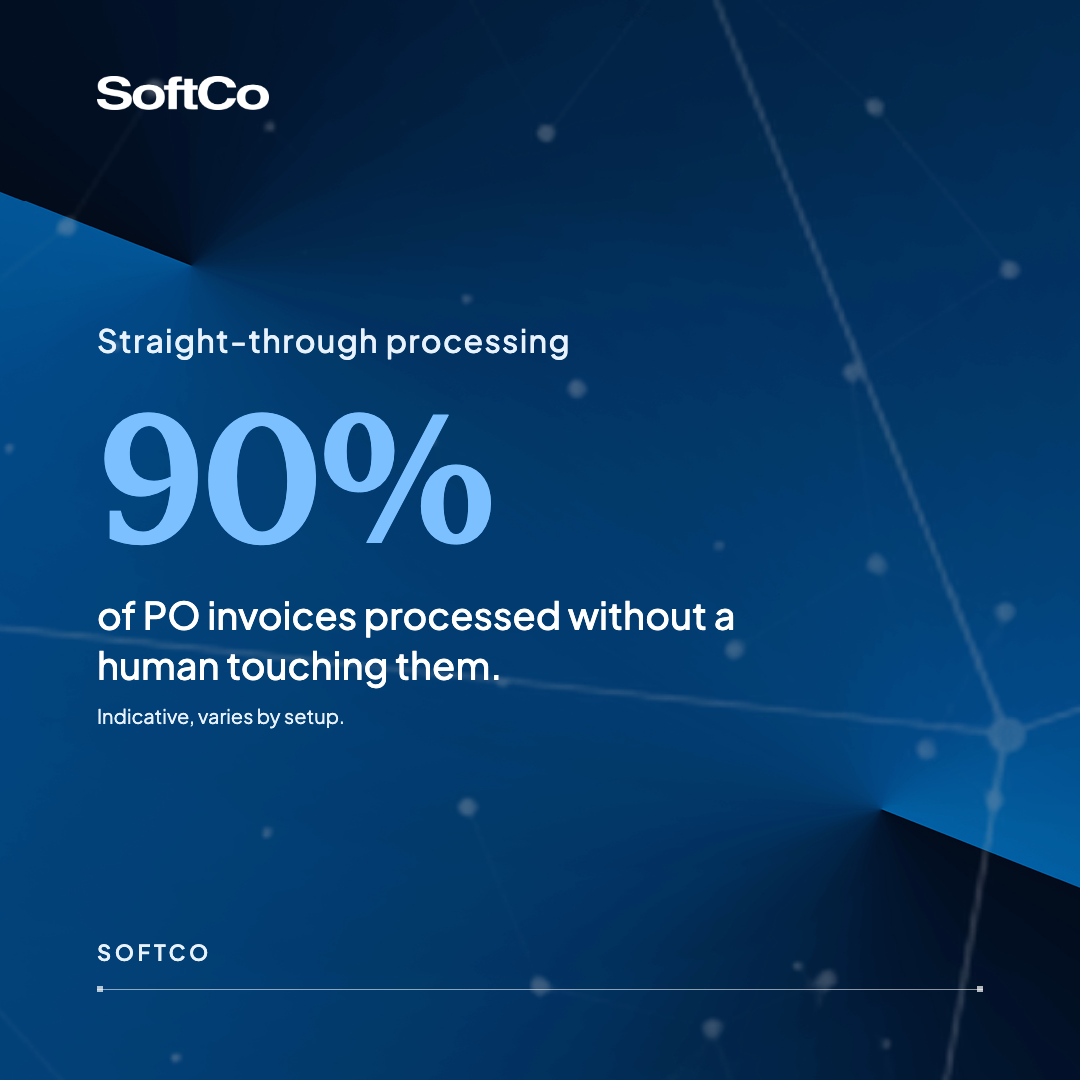
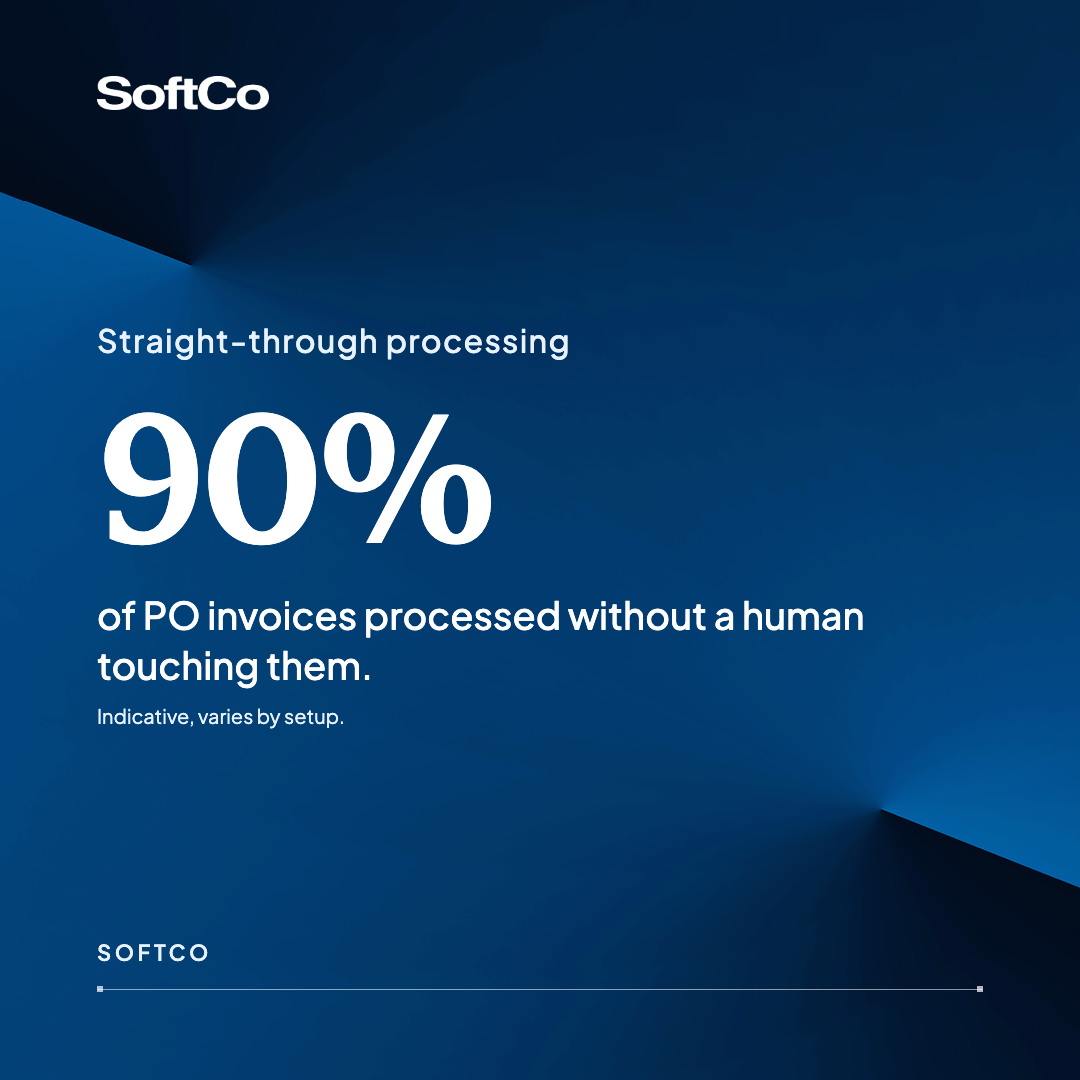
SoftCo page: address 2+6 Jul client feedback on assets
Remove frozen plexus/particle field from static stat_card, webinar_promo
and meeting_bg (it is a motion element; frozen it reads as noise). Lift
the hero stat and webinar title/date to full contrast. Add a 'Feedback
responses · 7 July' block showing each client comment, our response, and
previous-vs-new side by side. New versions are now the live assets.

diff --git a/src/app/clients/softco/data.ts b/src/app/clients/softco/data.ts
@@ -11,7 +11,7 @@ export const meta: Meta = {
   headline: "Creative deliverables",
   intro:
     "A live view of the work for SoftCo in the new brand system. The full asset list is below with status. The finished pieces are shown in full underneath, static and animated. Have a look and send back your thoughts.",
-  lastUpdated: "2026-06-27",
+  lastUpdated: "2026-07-07",
   feedbackContacts: ["softco.com"],
   targetDate: "2026-07-11",
   hideProgress: true,
@@ -388,6 +388,96 @@ export const work: WorkSection[] = [
     ],
   },
   /* ---- ZONE: work - the AI versions, grouped by QA state. ---- */
+  {
+    title: "Feedback responses · 7 July",
+    kind: "html",
+    zone: "work",
+    isNew: true,
+    groupLabel: "Latest · your 2 and 6 July feedback, addressed",
+    desc: "You commented on four assets. Here is each comment, what we changed, and the previous version beside the new one. The three reworked assets are now live on this page; the blog header is a new direction we are scoping.",
+    html: `<div class="fbr">
+<style>
+  .fbr{color:#060d2e;}
+  .fbr-asset{padding:30px 0;border-top:1px solid #e5e7eb;}
+  .fbr-asset:first-child{border-top:none;padding-top:6px;}
+  .fbr-h{display:flex;align-items:baseline;gap:12px;margin-bottom:16px;flex-wrap:wrap;}
+  .fbr-h h4{font-size:20px;font-weight:700;margin:0;letter-spacing:-0.01em;}
+  .fbr-size{font-size:11px;letter-spacing:.1em;text-transform:uppercase;color:#5b6270;border:1px solid #d9dbe0;padding:3px 8px;}
+  .fbr-pending{font-size:10px;letter-spacing:.08em;text-transform:uppercase;font-weight:700;color:#f7931e;border:1px solid #f7931e;padding:2px 7px;}
+  .fbr-cols{display:grid;grid-template-columns:1fr 1fr;gap:20px;margin-bottom:22px;}
+  .fbr-fb,.fbr-fix,.fbr-prop{padding:16px 18px;font-size:14px;line-height:1.5;}
+  .fbr-fb{background:#fff;border:1px solid #e5e7eb;border-left:3px solid #9aa0ab;}
+  .fbr-fix{background:#e8f2fd;border:1px solid #cfe2fa;border-left:3px solid #047fe5;}
+  .fbr-prop{background:#fff;border:1px solid #e5e7eb;border-left:3px solid #f7931e;}
+  .fbr-lab{font-size:11px;letter-spacing:.12em;text-transform:uppercase;font-weight:700;margin-bottom:8px;}
+  .fbr-fb .fbr-lab{color:#5b6270;}.fbr-fix .fbr-lab{color:#047fe5;}.fbr-prop .fbr-lab{color:#f7931e;}
+  .fbr-fb em{font-style:normal;display:block;margin-bottom:8px;}
+  .fbr-attr{color:#5b6270;font-size:12px;}
+  .fbr-fix ul{margin:0;padding:0;list-style:none;}
+  .fbr-fix li{position:relative;padding-left:18px;margin-bottom:7px;}
+  .fbr-fix li:last-child{margin-bottom:0;}
+  .fbr-fix li:before{content:"";position:absolute;left:0;top:7px;width:7px;height:7px;background:#047fe5;}
+  .fbr-prop p{margin:0 0 9px;}.fbr-prop p:last-child{margin:0;}
+  .fbr-ba{display:grid;grid-template-columns:1fr 1fr;gap:20px;}
+  .fbr-shot .fbr-cap{font-size:11px;letter-spacing:.09em;text-transform:uppercase;font-weight:700;margin-bottom:8px;display:flex;justify-content:space-between;align-items:baseline;}
+  .fbr-shot.prev .fbr-cap .fbr-tag{color:#5b6270;}
+  .fbr-shot.next .fbr-cap .fbr-tag{color:#047fe5;}
+  .fbr-cap .fbr-px{font-weight:400;letter-spacing:0;text-transform:none;color:#5b6270;}
+  .fbr-shot img{display:block;width:100%;height:auto;border:1px solid #e5e7eb;}
+  .fbr-square img{max-width:320px;}
+  .fbr-ph{border:1px dashed #d9dbe0;aspect-ratio:1200/630;display:flex;align-items:center;justify-content:center;color:#5b6270;font-size:13px;text-align:center;padding:16px;}
+  @media(max-width:760px){.fbr-cols,.fbr-ba{grid-template-columns:1fr;}}
+</style>
+
+  <div class="fbr-asset">
+    <div class="fbr-h"><h4>Stat card</h4><span class="fbr-size">1080 × 1080</span></div>
+    <div class="fbr-cols">
+      <div class="fbr-fb"><div class="fbr-lab">Your feedback · 2 Jul</div><em>“There are accessibility issues with these [and throughout]. Font weight, not enough contrast, etc. IMO the data model visualisation works in dynamic assets, but when static it looks poor / blurred / introduces visual noise. It’s also a bit disconnected from the brand style as currently spec’d.”</em><em>“Where is the light blue drawn from? Secondary palette?”</em><div class="fbr-attr"> -  client, 2 Jul</div></div>
+      <div class="fbr-fix"><div class="fbr-lab">How we’ve addressed it</div><ul><li>Removed the particle field from the still. It is a motion element, and frozen it reads as noise. Statics now use the clean gradient plus the deliberate blueprint line only.</li><li>The key figure is now full-contrast white, not the light blue on blue that was hard to read. The most important element is now the most legible.</li><li>The light blue is your own secondary palette (Light Blue #e8f2fd, a tint of SoftCo Blue). The hue is on-brand; the fault was using it at low contrast for key data, now fixed.</li></ul></div>
+    </div>
+    <div class="fbr-ba">
+      <div class="fbr-shot prev fbr-square"><div class="fbr-cap"><span class="fbr-tag">Previous</span><span class="fbr-px">shown at 320px</span></div><img src="/clients/softco/media/stat_card_prev.png" alt="previous stat card"></div>
+      <div class="fbr-shot next fbr-square"><div class="fbr-cap"><span class="fbr-tag">New</span><span class="fbr-px">shown at 320px</span></div><img src="/clients/softco/media/stat_card.png" alt="new stat card"></div>
+    </div>
+  </div>
+
+  <div class="fbr-asset">
+    <div class="fbr-h"><h4>Meeting background</h4><span class="fbr-size">1920 × 1080</span></div>
+    <div class="fbr-cols">
+      <div class="fbr-fb"><div class="fbr-lab">Your feedback · 6 Jul</div><em>“Same issue with the static data model visualisation layered over the gradient image. Floating dots look off. Out of step with the whole gradient plus line based ‘tailored to perfection’ visual style, such as it is.”</em><div class="fbr-attr"> -  client, 6 Jul</div></div>
+      <div class="fbr-fix"><div class="fbr-lab">How we’ve addressed it</div><ul><li>Removed the floating dots entirely.</li><li>Left it as the clean gradient with the deliberate vertical boundary line and the blueprint rule, the gradient-plus-line style you pointed to.</li><li>Right side stays clear for the person on the call.</li></ul></div>
+    </div>
+    <div class="fbr-ba">
+      <div class="fbr-shot prev"><div class="fbr-cap"><span class="fbr-tag">Previous</span><span class="fbr-px">16:9</span></div><img src="/clients/softco/media/meeting_bg_prev.png" alt="previous meeting background"></div>
+      <div class="fbr-shot next"><div class="fbr-cap"><span class="fbr-tag">New</span><span class="fbr-px">16:9</span></div><img src="/clients/softco/media/meeting_bg.png" alt="new meeting background"></div>
+    </div>
+  </div>
+
+  <div class="fbr-asset">
+    <div class="fbr-h"><h4>Webinar promo</h4><span class="fbr-size">1080 × 1080</span></div>
+    <div class="fbr-cols">
+      <div class="fbr-fb"><div class="fbr-lab">Your feedback · 2 Jul</div><em>“As above, legibility issues. Is it possible to do lock ups with speaker photos for webinar promos?”</em><div class="fbr-attr"> -  client, 2 Jul</div></div>
+      <div class="fbr-fix"><div class="fbr-lab">How we’ve addressed it</div><ul><li>Removed the particle field and lifted the title and date to full contrast, so both read cleanly.</li><li>Speaker-photo lock-up: yes, we can do this. We will build a with-photo variant next, alongside this no-face version. We just need a presenter photo to cut out.</li></ul></div>
+    </div>
+    <div class="fbr-ba">
+      <div class="fbr-shot prev fbr-square"><div class="fbr-cap"><span class="fbr-tag">Previous</span><span class="fbr-px">shown at 320px</span></div><img src="/clients/softco/media/webinar_promo_prev.png" alt="previous webinar promo"></div>
+      <div class="fbr-shot next fbr-square"><div class="fbr-cap"><span class="fbr-tag">New</span><span class="fbr-px">shown at 320px</span></div><img src="/clients/softco/media/webinar_promo.png" alt="new webinar promo"></div>
+    </div>
+  </div>
+
+  <div class="fbr-asset">
+    <div class="fbr-h"><h4>Blog header</h4><span class="fbr-size">1200 × 630</span><span class="fbr-pending">New direction pending</span></div>
+    <div class="fbr-cols">
+      <div class="fbr-fb"><div class="fbr-lab">Your feedback · 6 Jul</div><em>“Strong preference for not using text within article header images and thumbnails [issues w/ duplication, readability, accessibility, etc.]. Title already exists alongside. Image doing a different job, ideally a thematic visual cue. Is it possible to automate creation of conceptual imagery rather than title cards?”</em><div class="fbr-attr"> -  client, 6 Jul</div></div>
+      <div class="fbr-prop"><div class="fbr-lab">Proposed direction</div><p>Agreed. The header image should not repeat the title. We are moving blog headers and thumbnails to a conceptual visual cue instead of a title card.</p><p>This is a new template rather than a tweak, so we are scoping the approach first: how we generate an on-brand conceptual image per post, repeatably, at the quality bar of your own examples. New versions to follow.</p></div>
+    </div>
+    <div class="fbr-ba">
+      <div class="fbr-shot prev"><div class="fbr-cap"><span class="fbr-tag">Previous</span><span class="fbr-px">title card</span></div><img src="/clients/softco/media/blog_header_prev.png" alt="previous blog header"></div>
+      <div class="fbr-shot next"><div class="fbr-cap"><span class="fbr-tag">New</span><span class="fbr-px">in design</span></div><div class="fbr-ph">Conceptual imagery direction<br>to follow</div></div>
+    </div>
+  </div>
+</div>`,
+  },
   {
     title: "Webinar editor",
     kind: "embed",
